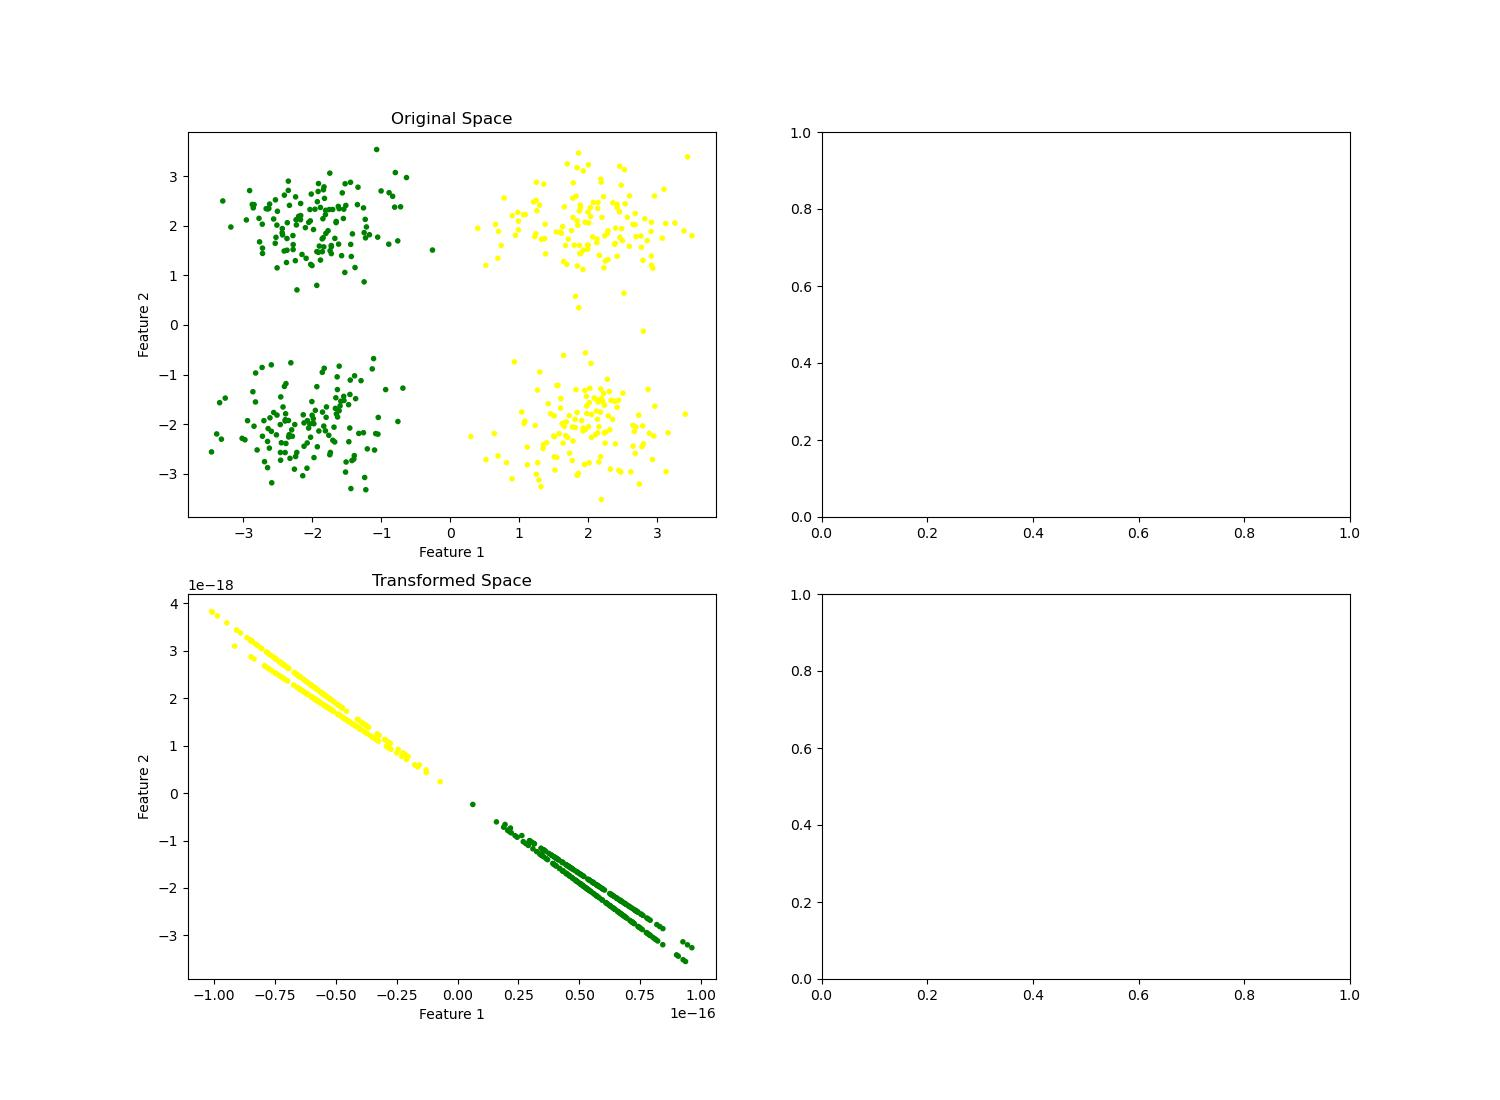
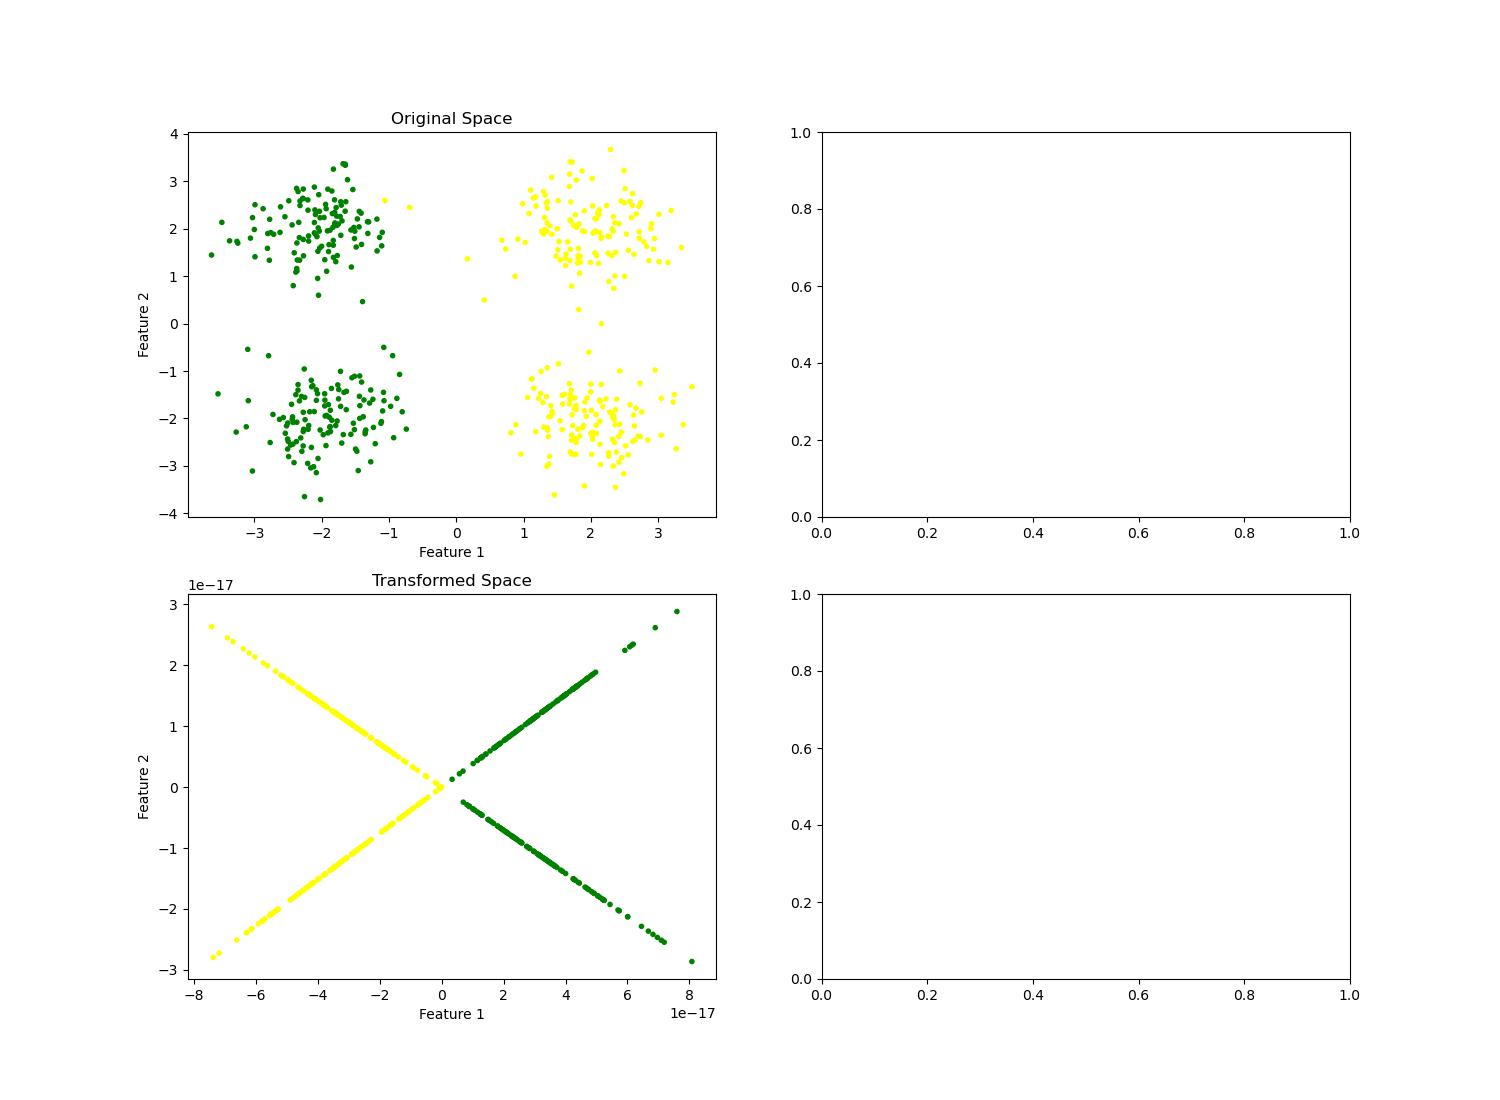
testing

diff --git a/MultiViewClusteringViaOrthogonalization/main_multiview.py b/MultiViewClusteringViaOrthogonalization/main_multiview.py
@@ -163,16 +163,16 @@ def mView_Clustering_via_Orthogonalization(DATA, alternatives, k, datatype):
 			u = np.array(u).reshape(len(u),1)										# reshape u to a vector column
 			uuT = np.dot(u,u.T)														# it returnes a [2×2] matirx ([2×1]*[1×2])
 			uTu = np.dot(u.T,u)														# it returnes a scalar ([1×2]*[2×1]=[1×1] matrix)
-			I   = np.identity(len(x))
-			X[i]= (I - uuT / uTu).dot(x) 											# transformation matrix dot product a vector (vector column) or
-			#X[i]= (I - uuT / uTu) * np.array(x).T 									# transformation matrix mltiplied by the transpose of vector x
+			M   = np.identity(len(x)) - uuT / uTu									# the transformation matrix
+			X[i]= (M).dot(x) 														# the transformation matrix dot product a vector (vector column) or
+			#X[i]= M * np.array(x).T 												# transformation matrix mltiplied by the transpose of vector x
 			
 # ========================================================================
 
 alternatives = 5 
 
-#DATA, k, datatype, imRow, imCol, imDim = generate_data(type= 'image') 							# 'image'
-DATA, k, datatype  = generate_data(type= '2-2-3') 									# '2-2-3', '4-3-2'
+#DATA, k, datatype, imRow, imCol, imDim = generate_data(type= 'image') 				# 'image'
+DATA, k, datatype  = generate_data(type= '4-3-2') 									# '2-2-3', '4-3-2'
 
 
 mView_Clustering_via_Orthogonalization(DATA, alternatives, k, datatype)
